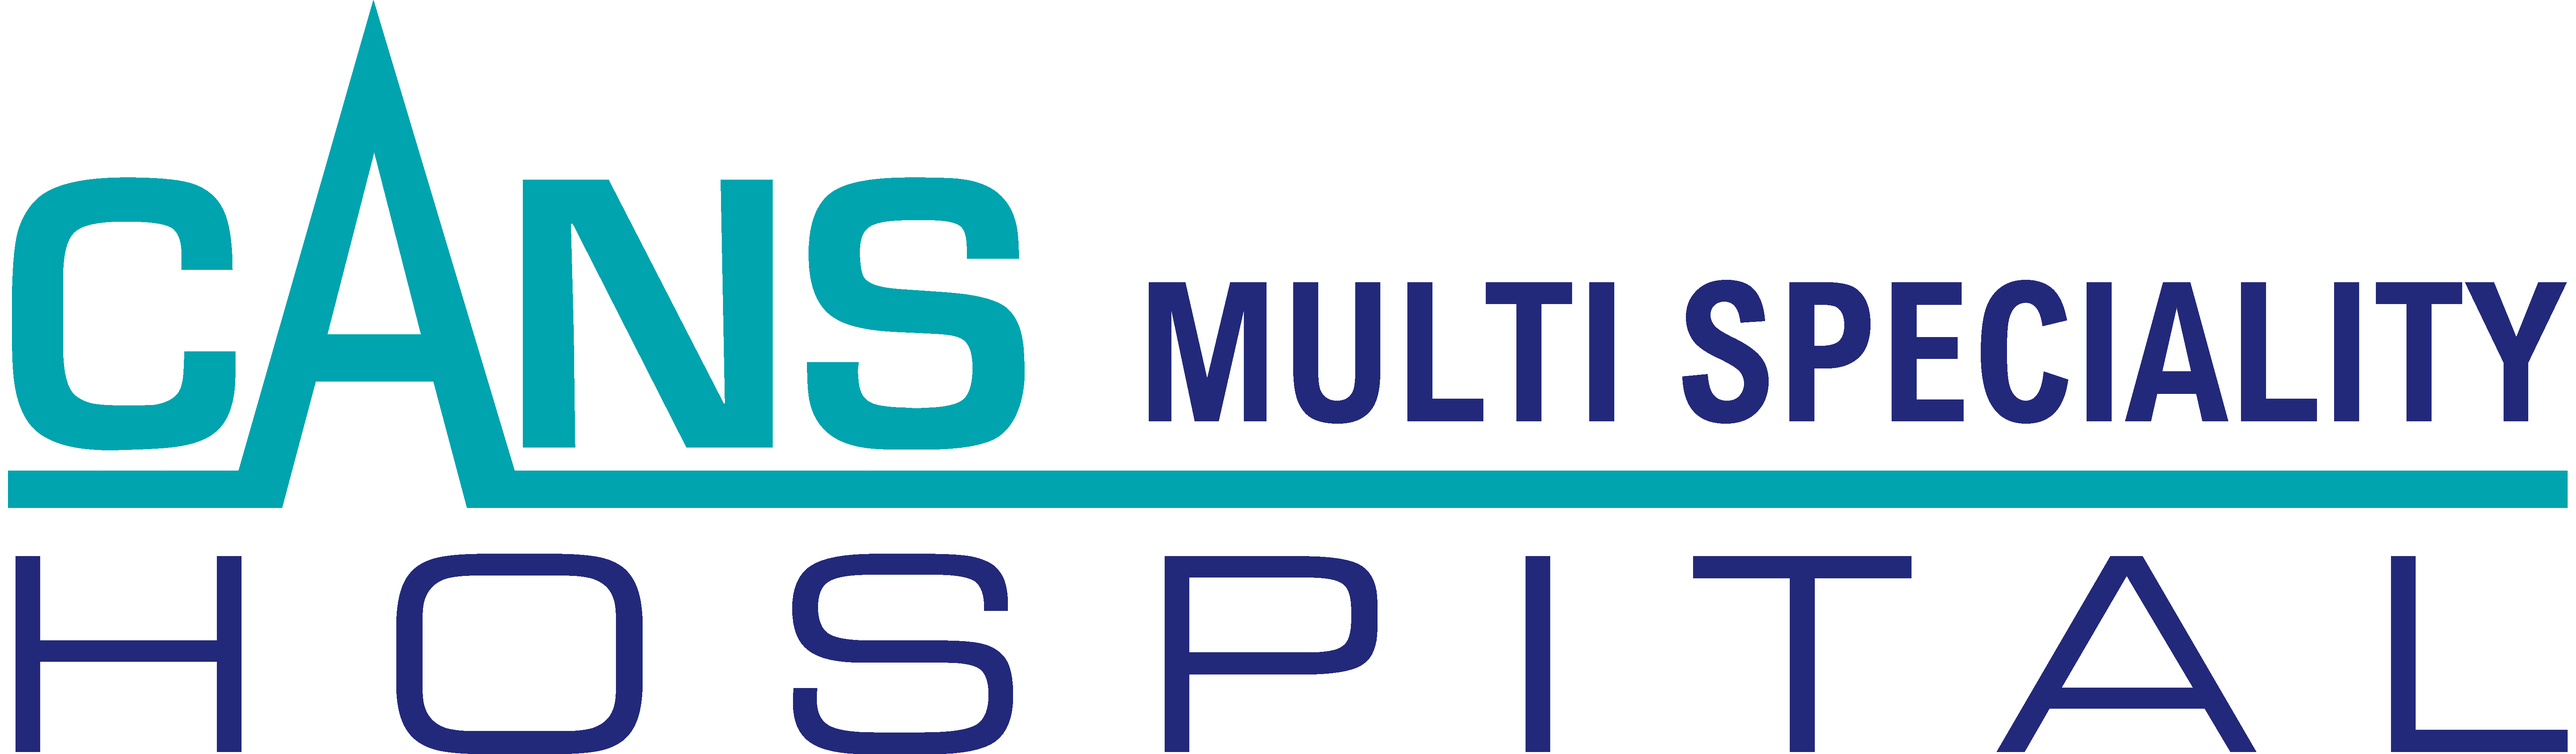
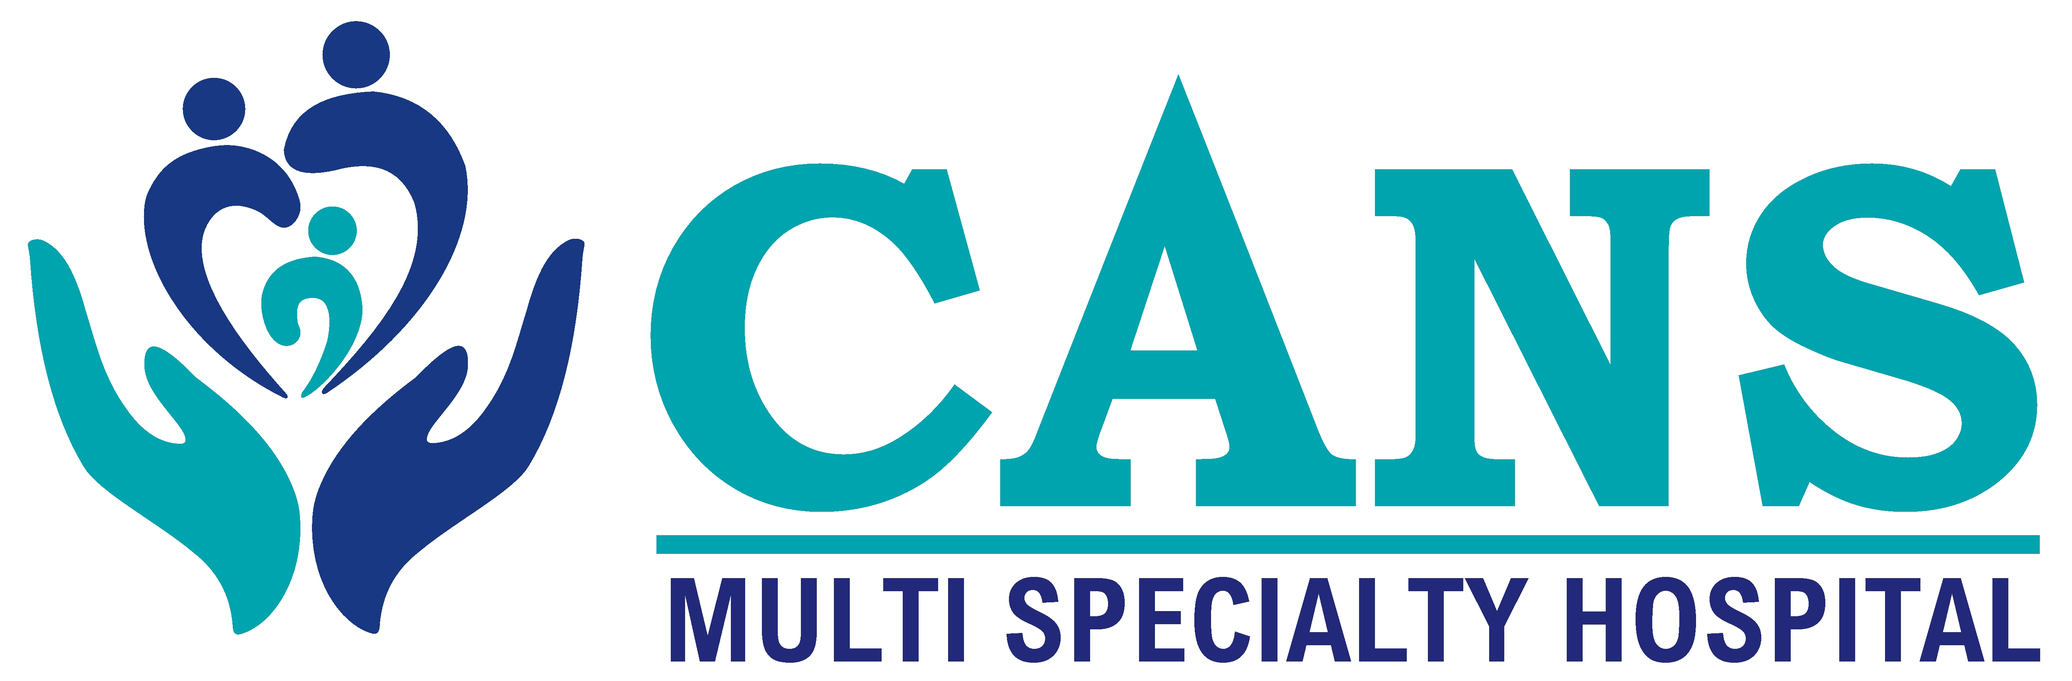
changes number

diff --git a/public/index.html b/public/index.html
@@ -57,7 +57,7 @@
                         <div class="col-xl-10 col-lg-12 col-md-12 col-12 header-contact-layout1 ">
                             <ul>
                                 <li>
-                                 <a href="tel:+8970585459"> <i class="fas fa-phone"></i>Call: 1234567890</li></a>  
+                                 <a href="tel:+080 29905555"> <i class="fas fa-phone"></i>Call:080 29905555</li></a>  
                                 <li>
                                  <a href="appointment.html" class="">  <i class="fas fa-calendar-alt"></i>Appointment</a> 
                                 </li>
@@ -248,30 +248,148 @@
          <section class="about-wrap-layout1" data-bg-image="img/figure/figure7.jpg">
             <div class="container">
                 <div class="row">
-                    <div class="about-box-layout1 order-xl-2 col-xl-6 col-lg-6 col-12 align-items-center">
+                    <div class="about-box-layout1 order-xl-2 col-xl-7 col-lg-7 col-12 align-items-center">
                         <div class="item-content">
-                            <h2 class="item-title">Welcome To CANS Multispeciality Hospital</h2>
-                            <div class="sub-title">Hospital imply dummy text of the printing and type setng industry
-                                been
-                                the industry.
-                            </div>
-                            <p>Mtandard dummy texr since when an unknown took a galley. printer took a galley.MediPoint Lorem ipsum
-                                dolor sit amet, consetetur sadipscing elitr, At accusam aliquyam.'s standard dummy texr
-                                since when an unknown printer took a galley consetetur. At accusam aliquyam.'s standard dummy texr</p>
-                                <a class="blog-btn " style="margin-top: 0px;" href="about.html">KNOW MORE<i class="fas fa-chevron-right"></i></a>
+                            <div class="green-color"><b>WELCOME TO</b></div>
+                            <h2 class="item-title blue-color">CANS Multi Speciality Hospital</h2>
+                           
+                            <p>Looking for a super-speciality and multi-facilities hospital in Bangalore?
+                                 CANS Hospital has to be your go-to option. We are highly acclaimed in the business 
+                                 when it comes to providing 100-bedded premium boutique multi-speciality treatments. 
+                                 This hospital comes with world-class medical facilities, a state-of-the-art architectural set-up,
+                                 and experienced and well-qualified doctors in different domains of medical science</p>
+                                 <a class="index-btn green-backgrond" style="margin-top: 0px;" href="contact.html">ENQUIRY NOW</a><a class="index-btn blue-backgrond" style="margin-top: 0px;" href="about.html">KNOW MORE</a>
                         </div>
                         
                     </div>
                   
-                    <div class="about-box-layout2 order-xl-1 col-xl-6 col-lg-6 col-12">
+                    <div class="about-box-layout2 order-xl-1 col-xl-5 col-lg-5 col-12">
                         <div class="item-img">
-                            <img src="img/department/pulmonology.jpg" alt="about" class="img-fluid">
+                            <img src="img/about/hospital_image.jpg" alt="about cans hospital " class="img-fluid">
                         </div>
                     </div>
                 </div>
             </div>
         </section>
         <!-- About Area End Here -->
+         <!-- Center of excellence Area Start Here -->
+         <section class="green-backgrond Center-of-excellence ">
+            <div class="container">
+                
+                <div class="row">
+                    <div class="col-xl-8 col-12">
+                       
+                        <div class="departments-box-layout7 departments-box-layout7_new">
+                            <h2 class="white-color">Centers of Excellence</h2>
+                            <div class="row gutters-5">
+                                <div class="col-lg-3 col-md-6 col-sm-6 col-12">
+                                    <div class="single-box">
+                                        <i class="flaticon-medical"></i>
+                                        <p>
+                                            <a href="#">Dental Care</a>
+                                        </p>
+                                    </div>
+                                </div>
+                                <div class="col-lg-3 col-md-6 col-sm-6 col-12">
+                                    <div class="single-box">
+                                        <i class="flaticon-pills"></i>
+                                        <p>
+                                            <a href="#">Medicine</a>
+                                        </p>
+                                    </div>
+                                </div>
+                                <div class="col-lg-3 col-md-6 col-sm-6 col-12">
+                                    <div class="single-box">
+                                        <i class="flaticon-human-hip"></i>
+                                        <p>
+                                            <a href="#">Orthopedic</a>
+                                        </p>
+                                    </div>
+                                </div>
+                                <div class="col-lg-3 col-md-6 col-sm-6 col-12">
+                                    <div class="single-box">
+                                        <i class="flaticon-heart"></i>
+                                        <p>
+                                            <a href="#">Cardeology</a>
+                                        </p>
+                                    </div>
+                                </div>
+                                <div class="col-lg-3 col-md-6 col-sm-6 col-12">
+                                    <div class="single-box">
+                                        <i class="flaticon-stethoscope"></i>
+                                        <p>
+                                            <a href="#">Primary Care</a>
+                                        </p>
+                                    </div>
+                                </div>
+                                <div class="col-lg-3 col-md-6 col-sm-6 col-12">
+                                    <div class="single-box">
+                                        <i class="flaticon-medical-1"></i>
+                                        <p>
+                                            <a href="#">Eye Care</a>
+                                        </p>
+                                    </div>
+                                </div>
+                                <div class="col-lg-3 col-md-6 col-sm-6 col-12">
+                                    <div class="single-box">
+                                        <i class="flaticon-ambulance"></i>
+                                        <p>
+                                            <a href="#">Eye Care</a>
+                                        </p>
+                                    </div>
+                                </div>
+                                <div class="col-lg-3 col-md-6 col-sm-6 col-12">
+                                    <div class="single-box">
+                                        <i class="flaticon-first-aid-kit"></i>
+                                        <p>
+                                            <a href="#">Skilled Doctors</a>
+                                        </p>
+                                    </div>
+                                </div>
+                            </div>
+                        </div>
+                    </div>
+                    <div class="col-xl-4 col-12">
+                        <div class="contact-box-layout1">
+                           
+                            <form class="contact-form-box contact-home" id="">
+                                <h3 class="blue-backgrond text-center white-color">Book Appointment</h3>
+                                <div class="row">
+                                    <div class="col-md-12 form-group">
+                                        <input type="text" placeholder="Your Name *" class="form-control" name="your_name"
+                                            data-error="Name is required" required>
+                                        <div class="help-block with-errors"></div>
+                                    </div>
+                                    <div class="col-md-12 form-group">
+                                        <input type="email" placeholder="E-mail *" class="form-control" name="email"
+                                            data-error="Email  is required" required>
+                                        <div class="help-block with-errors"></div>
+                                    </div>
+                                    <div class="col-md-12 form-group">
+                                        <input type="text" placeholder="Phone *" class="form-control" name="phone"
+                                            data-error="Phone is required" required>
+                                        <div class="help-block with-errors"></div>
+                                    </div>
+                                  
+                                    <div class="col-12 form-group">
+                                        <textarea placeholder="Message*" class="textarea form-control" name="message"
+                                            id="form-message" rows="3" cols="20" data-error="Message field is required"
+                                            required></textarea>
+                                        <div class="help-block with-errors"></div>
+                                    </div>
+                                    <div class="col-12 form-group margin-b-none">
+                                        <button type="submit" class="item-btn">Submit Message</button>
+                                    </div>
+                                </div>
+                                <div class="form-response"></div>
+                            </form>
+                        </div>
+
+                    </div>
+                </div>
+            </div>
+        </section>
+        <!-- Center of excellence Area End Here -->
            
         <!-- Departments Area Start Here -->
         <section class="departments-wrap-layout2 bg-light-secondary100">
@@ -613,7 +731,7 @@
                         <div class="single-item col-lg-3 col-md-6 col-12">
                             <div class="footer-box">
                                 <div class="footer-logo">
-                                    <a href="index.html"><img src="img/cans_hospital_footer.png" class="img-fluid" alt="footer-logo"></a>
+                                    <a href="index.html"><img src="img/Cans_Hospital_Logo.png" class="img-fluid" alt="footer-logo"></a>
                                 </div>
                                 <div class="footer-about">
                                     <p>Patient centric hospital in Banglore. Building a healthy environment that supports development for the community

diff --git a/public/style.css b/public/style.css
@@ -498,7 +498,7 @@ ul {
 }
 .top-bar-border-bottom {
   border-bottom: 1px solid #d7d7d7;
-  background-color: #edf3f3;
+  background-color: #00a3ad;
 }
 .header-menu-area:after {
   clear: both;
@@ -1499,7 +1499,7 @@ ul {
 }
 .header-contact-layout1 ul li i {
   margin-right: 10px;
-  color: #41468C;
+  color: #ffffff;
 }
 .header-contact-layout1 ul li:last-child {
   margin-right: 0;
@@ -1638,7 +1638,7 @@ ul {
   margin-right: 0;
 }
 .header-social-layout1 li a {
-  color: #1f1c1c;
+  color: #ffffff;
   text-align: center;
   font-size: 14px;
   display: block;
@@ -11362,6 +11362,51 @@ text-transform: capitalize;
 
 
 .header-contact-layout1 ul li a{
-  color: #41468C;
+  color: #ffffff;
   font-weight: bold;
+}
+.index-btn{
+  margin-top: 40px;
+    padding: 10px 20px;
+    color: #ffffff;
+    margin: 5px;
+    display: inline-block;
+    float: right;
+    -webkit-transition: all 0.3s ease-out;
+    -moz-transition: all 0.3s ease-out;
+    -ms-transition: all 0.3s ease-out;
+    -o-transition: all 0.3s ease-out;
+    transition: all 0.3s ease-out;
+}
+.blue-backgrond{
+  background-color: #183883;
+}
+.green-backgrond{
+  background-color: #00a3ad;
+}
+.green-color{
+  color:#00a3ad !important ;
+}
+.blue-color{
+  color: #183883 !important;
+}
+.white-color{
+  color: #ffffff !important
+}
+.departments-box-layout7_new{
+  padding: 35px !important;
+
+}
+.contact-home .form-group{
+  margin-bottom: 0px !important;
+}
+.Center-of-excellence{
+color:#ffffff
+}
+.contact-home{
+  background-color: #ffffff;
+  padding:10px;
+}
+ h3{
+  padding: 5px;
 }
